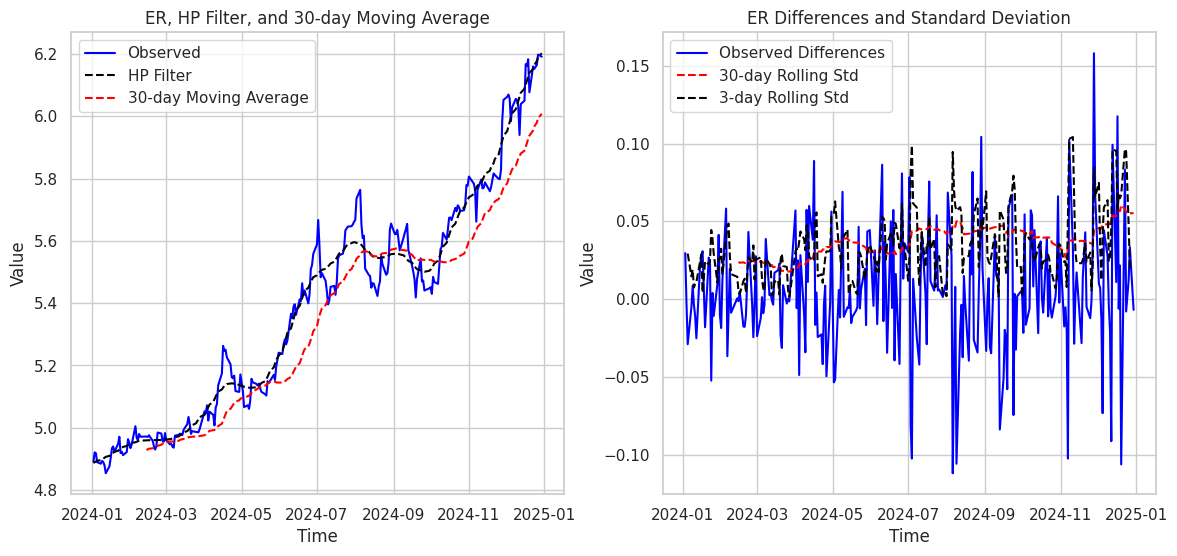
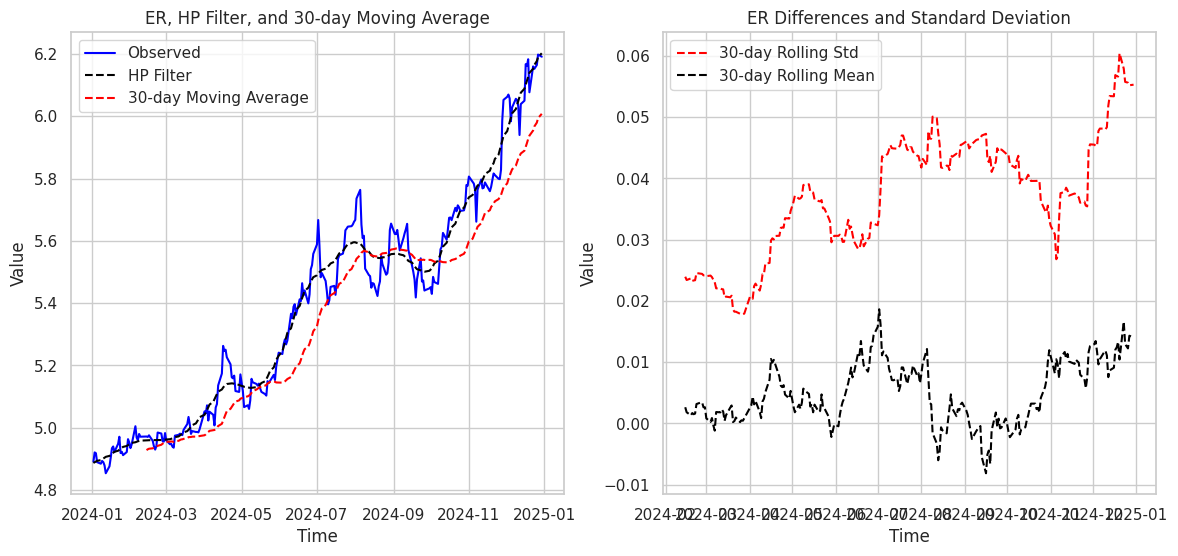
update p3

diff --git a/post3.html b/post3.html
@@ -30,7 +30,7 @@
     
     <h2>Buy now or latter?</h2> 
         
-<p>Have you ever wondered if you should buy Dollars or Euros this month? or maybe closer to your trip?</p>
+<p>Have you ever wondered if you should buy Dollars or Euros this month? Or maybe someday closer to your trip?</p>
 
 This is a common question for those willing to travel abroad but are unsure whether to buy now or closer to the trip.
 I have questioned that myself a few times, and I'm frequently asked by friends who believe economists should know this kind of stuff (by heart).</p>
@@ -68,27 +68,28 @@ Although not necessarily the most sophisticated, this method commonly employed t
 
 <h2>What is the GARCH Model?</h2>
 
-<p>In most financial time series, including the exchange, OLS's required assumptions are not met: that is, their estimated residuals are not constant, and their variance is not constant.
-    This is where the GARCH model comes in. Its basic assumption is that variance is conditional to time. 
+<p> GARCH stands for Generalized Autoregressive Conditional Heteroskedasticity.
+     Its basic assumption is that variance is conditional on time. 
     By assuming a functional relationship between the variance and its past values, the GARCH model can estimate the variance itself. And hence, be used to forecast the exchange rate.</p>
      </p>
 
 <p>Think of this: if a variation is time-dependent then yesterday’s variance is probably affecting today’s variance. 
-    Maybe the variance of the exchange rate two days ago also is still reflected on todays variation.</p>
+    Maybe the variance of the exchange rate two days ago also is still reflected on today's variation.</p>
 
-<p>The GARCH model is basically estimating the weight of past variances and error terms on current variance. Hence we can define the variance today as \( r_t \) as a constant mean \( \mu \) plus a time-dependent error term \( \epsilon_t \):</p>
+<p>Therefore the GARCH model is basically estimating the weight of past variances and error terms on current variance.
+     Defininge the exchange rate as \( r_t \), we can say that its value is determined by a constant mean \( \mu \) plus a time-dependent error term \( \epsilon_t \):</p>
 
 <p>\[ r_t = \mu + \epsilon_t \]</p>
 
-<p>This error, however, is not constant; it is conditional on time and its previous values such that:</p>
+<p>This error (or random-walk), however, is not constant; it is conditional on time and its previous values such that:</p>
 
 <p>\[ \epsilon_t = \sigma_t z_t, \quad z_t \sim \text{i.i.d. }(0,1) \]</p>
 
 <p>And most importantly, this \( \sigma_t \) - the variance itself - is defined as:</p>
 
-<p>\[ \sigma_t^2 = \omega + \sum_{i=1}^{p} \alpha_i \epsilon_{t-i}^2 + \sum_{j=1}^{q}\beta_j\sigma_{t-j}^2 \]></h2>
-
-Notice that apart from past variance, the error itself is also included in the equation, meaning that past (squared) shocks, still influence current variance.
+<p>\[ \sigma_t^2 = \omega + \sum_{i=1}^{p} \alpha_i \epsilon_{t-i}^2 + \sum_{j=1}^{q}\beta_j\sigma_{t-j}^2 \]</h2>
+    
+    Notice that apart from past variance, the error term itself is also included in the equation, meaning that past (squared) shocks, still influence current variance.
 
 <p>The weights on this equation are, naturally, the \( \alpha_i \) and \( \beta_j \). Whereas \( \omega \) is a constant intercept</p>
 
@@ -96,8 +97,9 @@ Notice that apart from past variance, the error itself is also included in the e
 <h2>Let’s fit it to the data?</h2>
 
 
-<p>For this post, I have used the Brazilian Real to US Dollar exchange rate. The data is available at the Central Bank of Brazil website.
-     The data is daily and spans from 2024-01-01 until the last available data (2025-01-07) .</p>
+<p>For this post, I have used the Brazilian Real to US Dollar exchange rate. 
+    The data is available at the Central Bank of Brazil website (Series N.10813).
+     The data is daily and, for the current problem, spans from 2024-01-01 until the last available data (2025-01-07) .</p>
 
 
 <p>Since the ER was clearly non stationary AND we are not estimating its level but its variance, we will use the daily difference as our estimand \( \Delta r_t \).</p>   
@@ -106,11 +108,13 @@ Notice that apart from past variance, the error itself is also included in the e
 
 <p>First, let's have a look at the data over time, and how its variance behaves.</p>
 
+<p> The left plot shows us the level of the BRZ/USD during 2024. The right plot shows us its variance and the variance's standard deviation over time: </p>
+
 
 <a name="er_eda_1"></a>
 <div align="center">
     <figure>
-        <iframe src="images/er_eda_1.png" height="600" width="1230" style="display:block;"></iframe>
+        <iframe src="images/er_eda_1.png" height="600" width="800" style="display:block;"></iframe>
         <figcaption><strong>Fig. 1 - Exchange Rate Variation and Standard Deviation (%/Units)</strong></figcaption>
     </figure>
 </div>
@@ -119,8 +123,8 @@ Notice that apart from past variance, the error itself is also included in the e
 It is clear that:
 <enumerate>
     <li> The exchange rate is non-stationary, with a clear upward trend - non constant mean</li>
-    <li> The difference of the exchange rate is also non-stationary, with a clear upward trend</li>
-    <li> The standard deviation of the exchange rate is not constant, with what looks like a upward trend</li>
+    <li> The standard deviation of the difference of the exchange rate is also non-stationary, with a clear upward trend</li>
+    <li> It seems that the ER difference itself changes over time - non constant variance - without any clear trend, however.</li>
 
 This means that the GARCH approach does seem appropriate for the data at hand.
  But how good can a model soleley based on past variances and errors be at predicting the exchange rate?</p>
@@ -128,7 +132,7 @@ This means that the GARCH approach does seem appropriate for the data at hand.
 
  When setting up the model, we have to define the number of lags for the variance and the error terms. 
  This is done by setting the \( p \) and \( q \) parameters. I have created an algorithm to estimate the combination
- of different possibilities of values (1, 10 for each parameter) and selected the one which minimized errors (residuals).
+ of different possibilities of values (1 to 5 10 for each parameter) and selected the one which minimized errors (residuals).
 
  <p> Since our goal is to forecast UNSEEN data, I have trained a model with half of the observations (until 2025-06-30).
     The models's results are presented below:</p>
@@ -142,9 +146,9 @@ This means that the GARCH approach does seem appropriate for the data at hand.
     </figure>
 </div>
 
-We can see that past error terms are present at one level , our \( \alpha_1 \) coefficient,
- whereas past variances are represented by one leveltoo, our \( \beta_1 \) coefficient. 
- Despite the error minimization specification, we can see that  \beta_1 is not statistically significant.
+We can see that past error terms are present at two levels , represented by \( \alpha_1 \) and \( \alpha_2\) coefficients,
+ whereas past variances are represented by one level too, our \( \beta_1 \) coefficient.  
+ Despite the error minimization specification, we can see that both \(\beta_1\) and \(\alpha_2\) are not statistically significant.
 
 <p>A practical way to validate this result is by simply plotting the autocorrelation function (ACF) of the exchange rate variance change itself.
  This function provides the correlation between a value in t against a value in t-1, t-2, t-3, and so on. 
